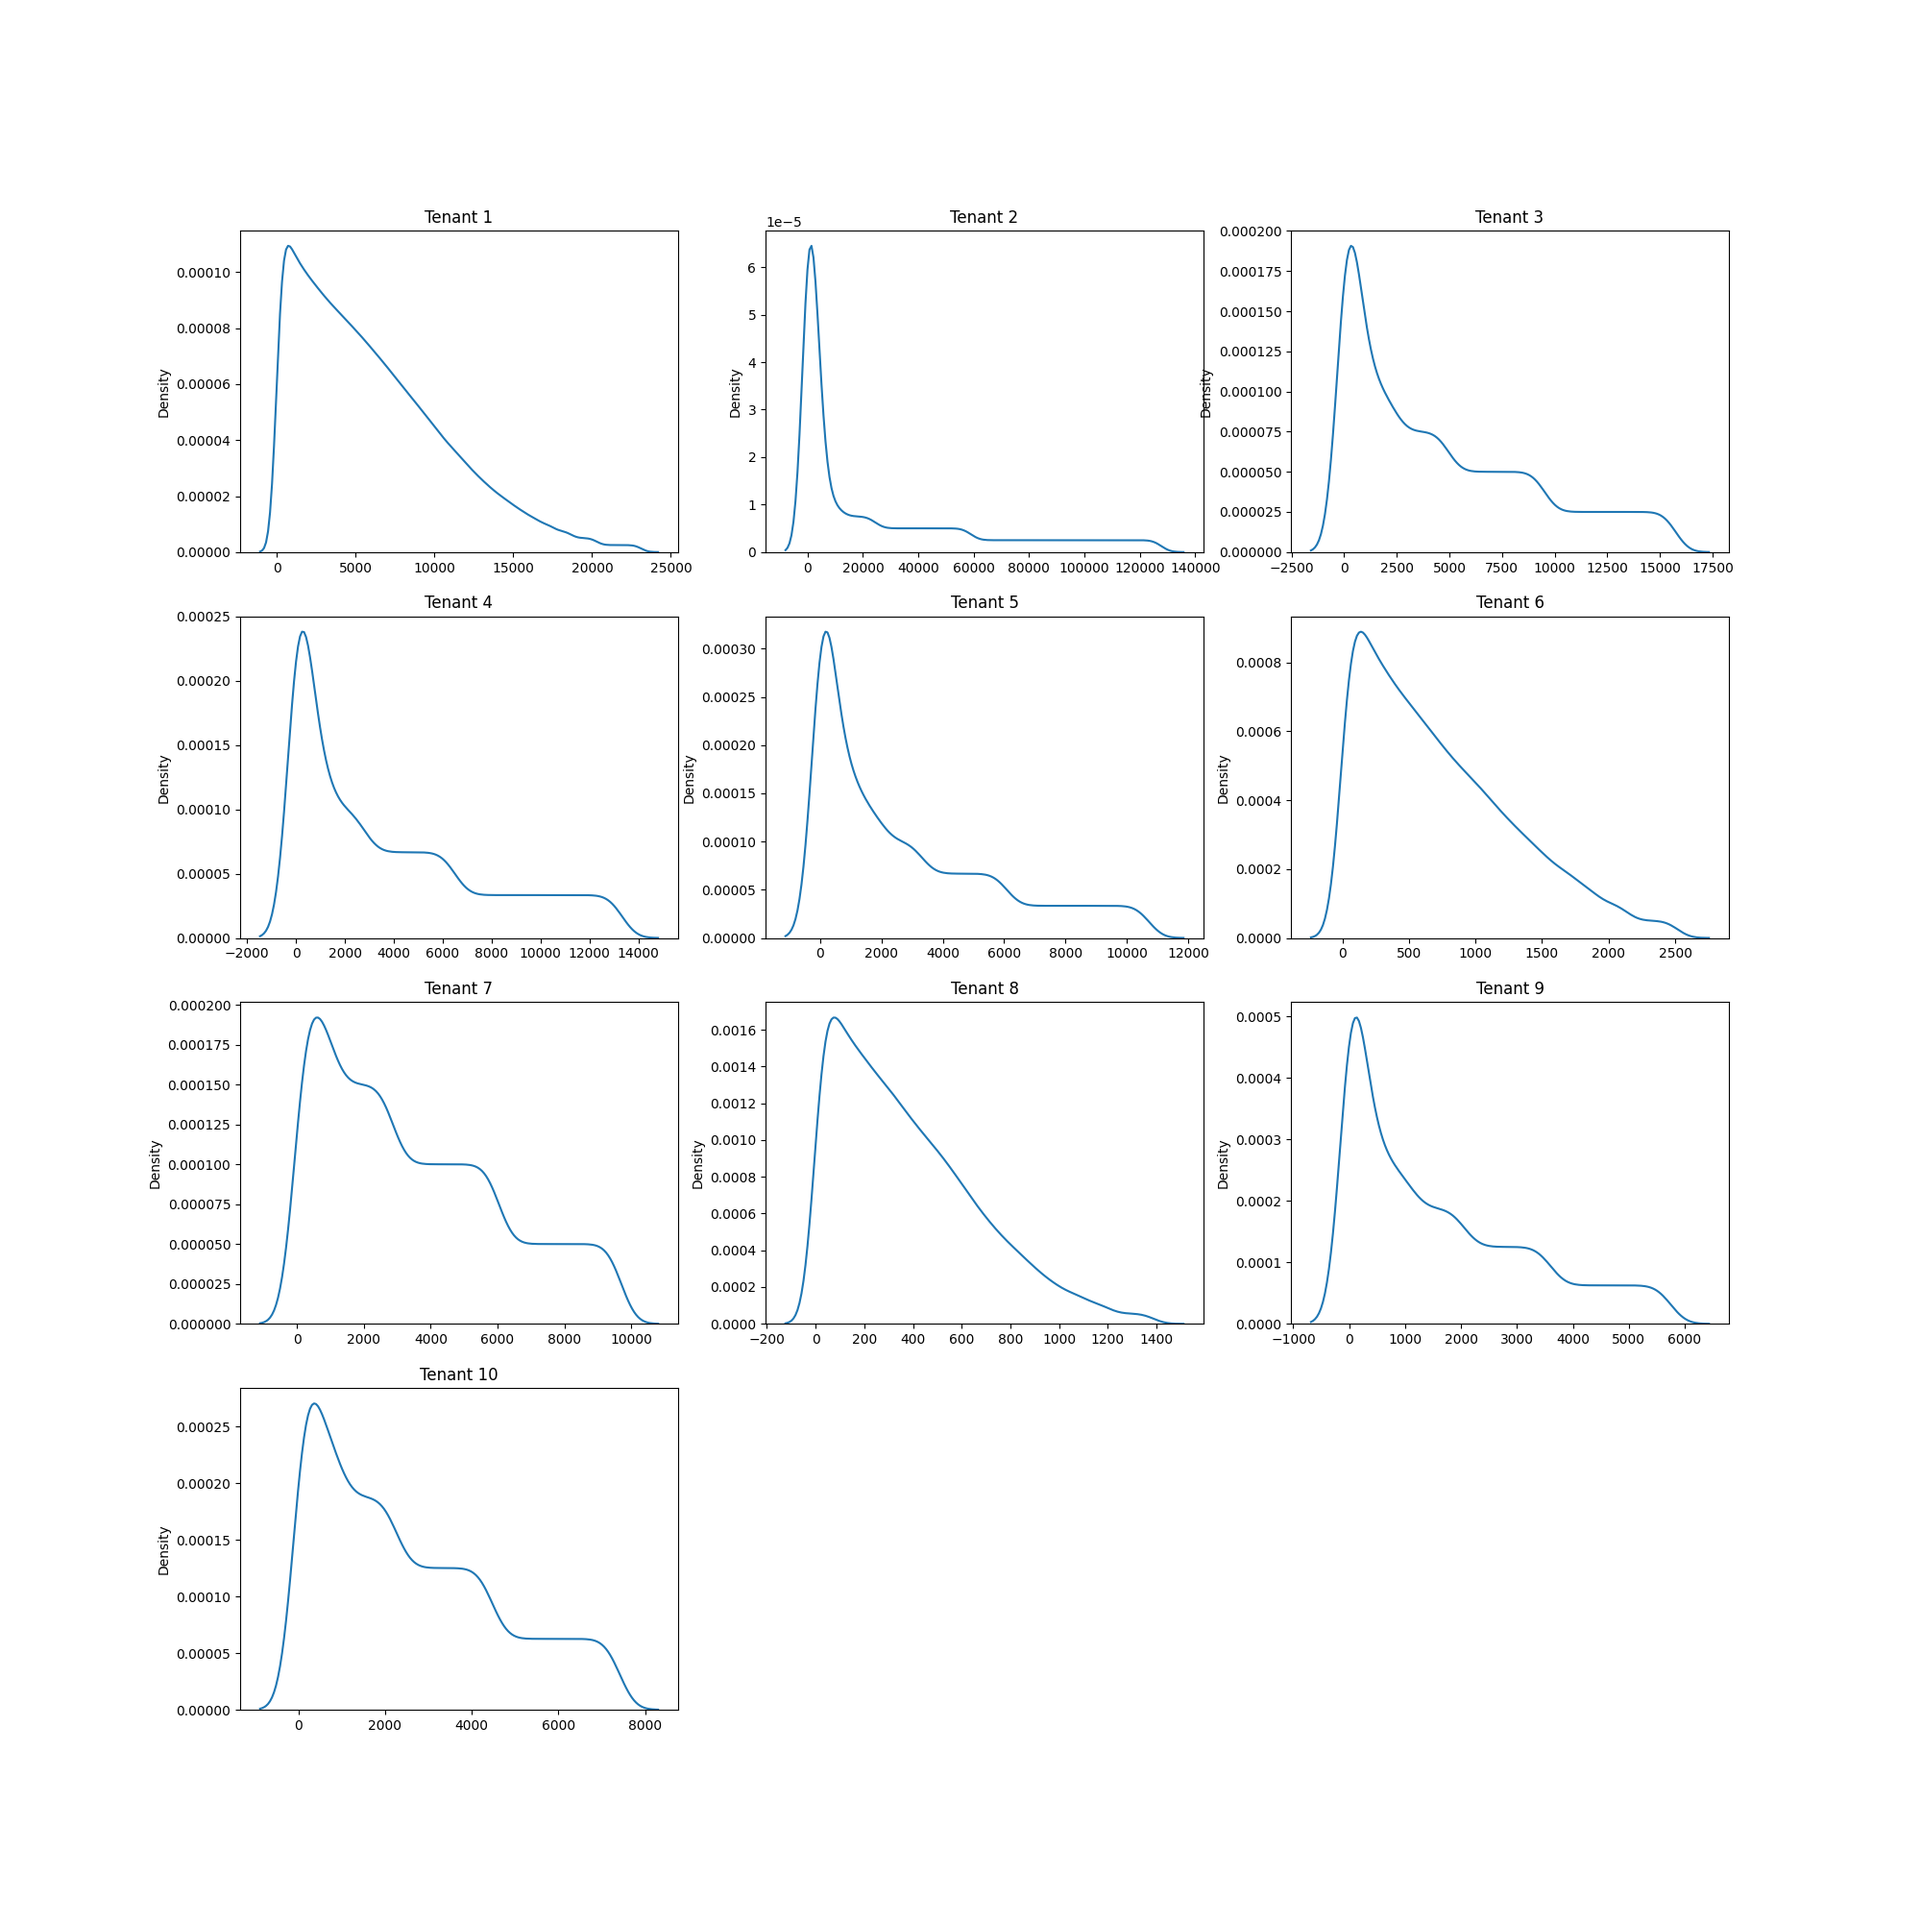
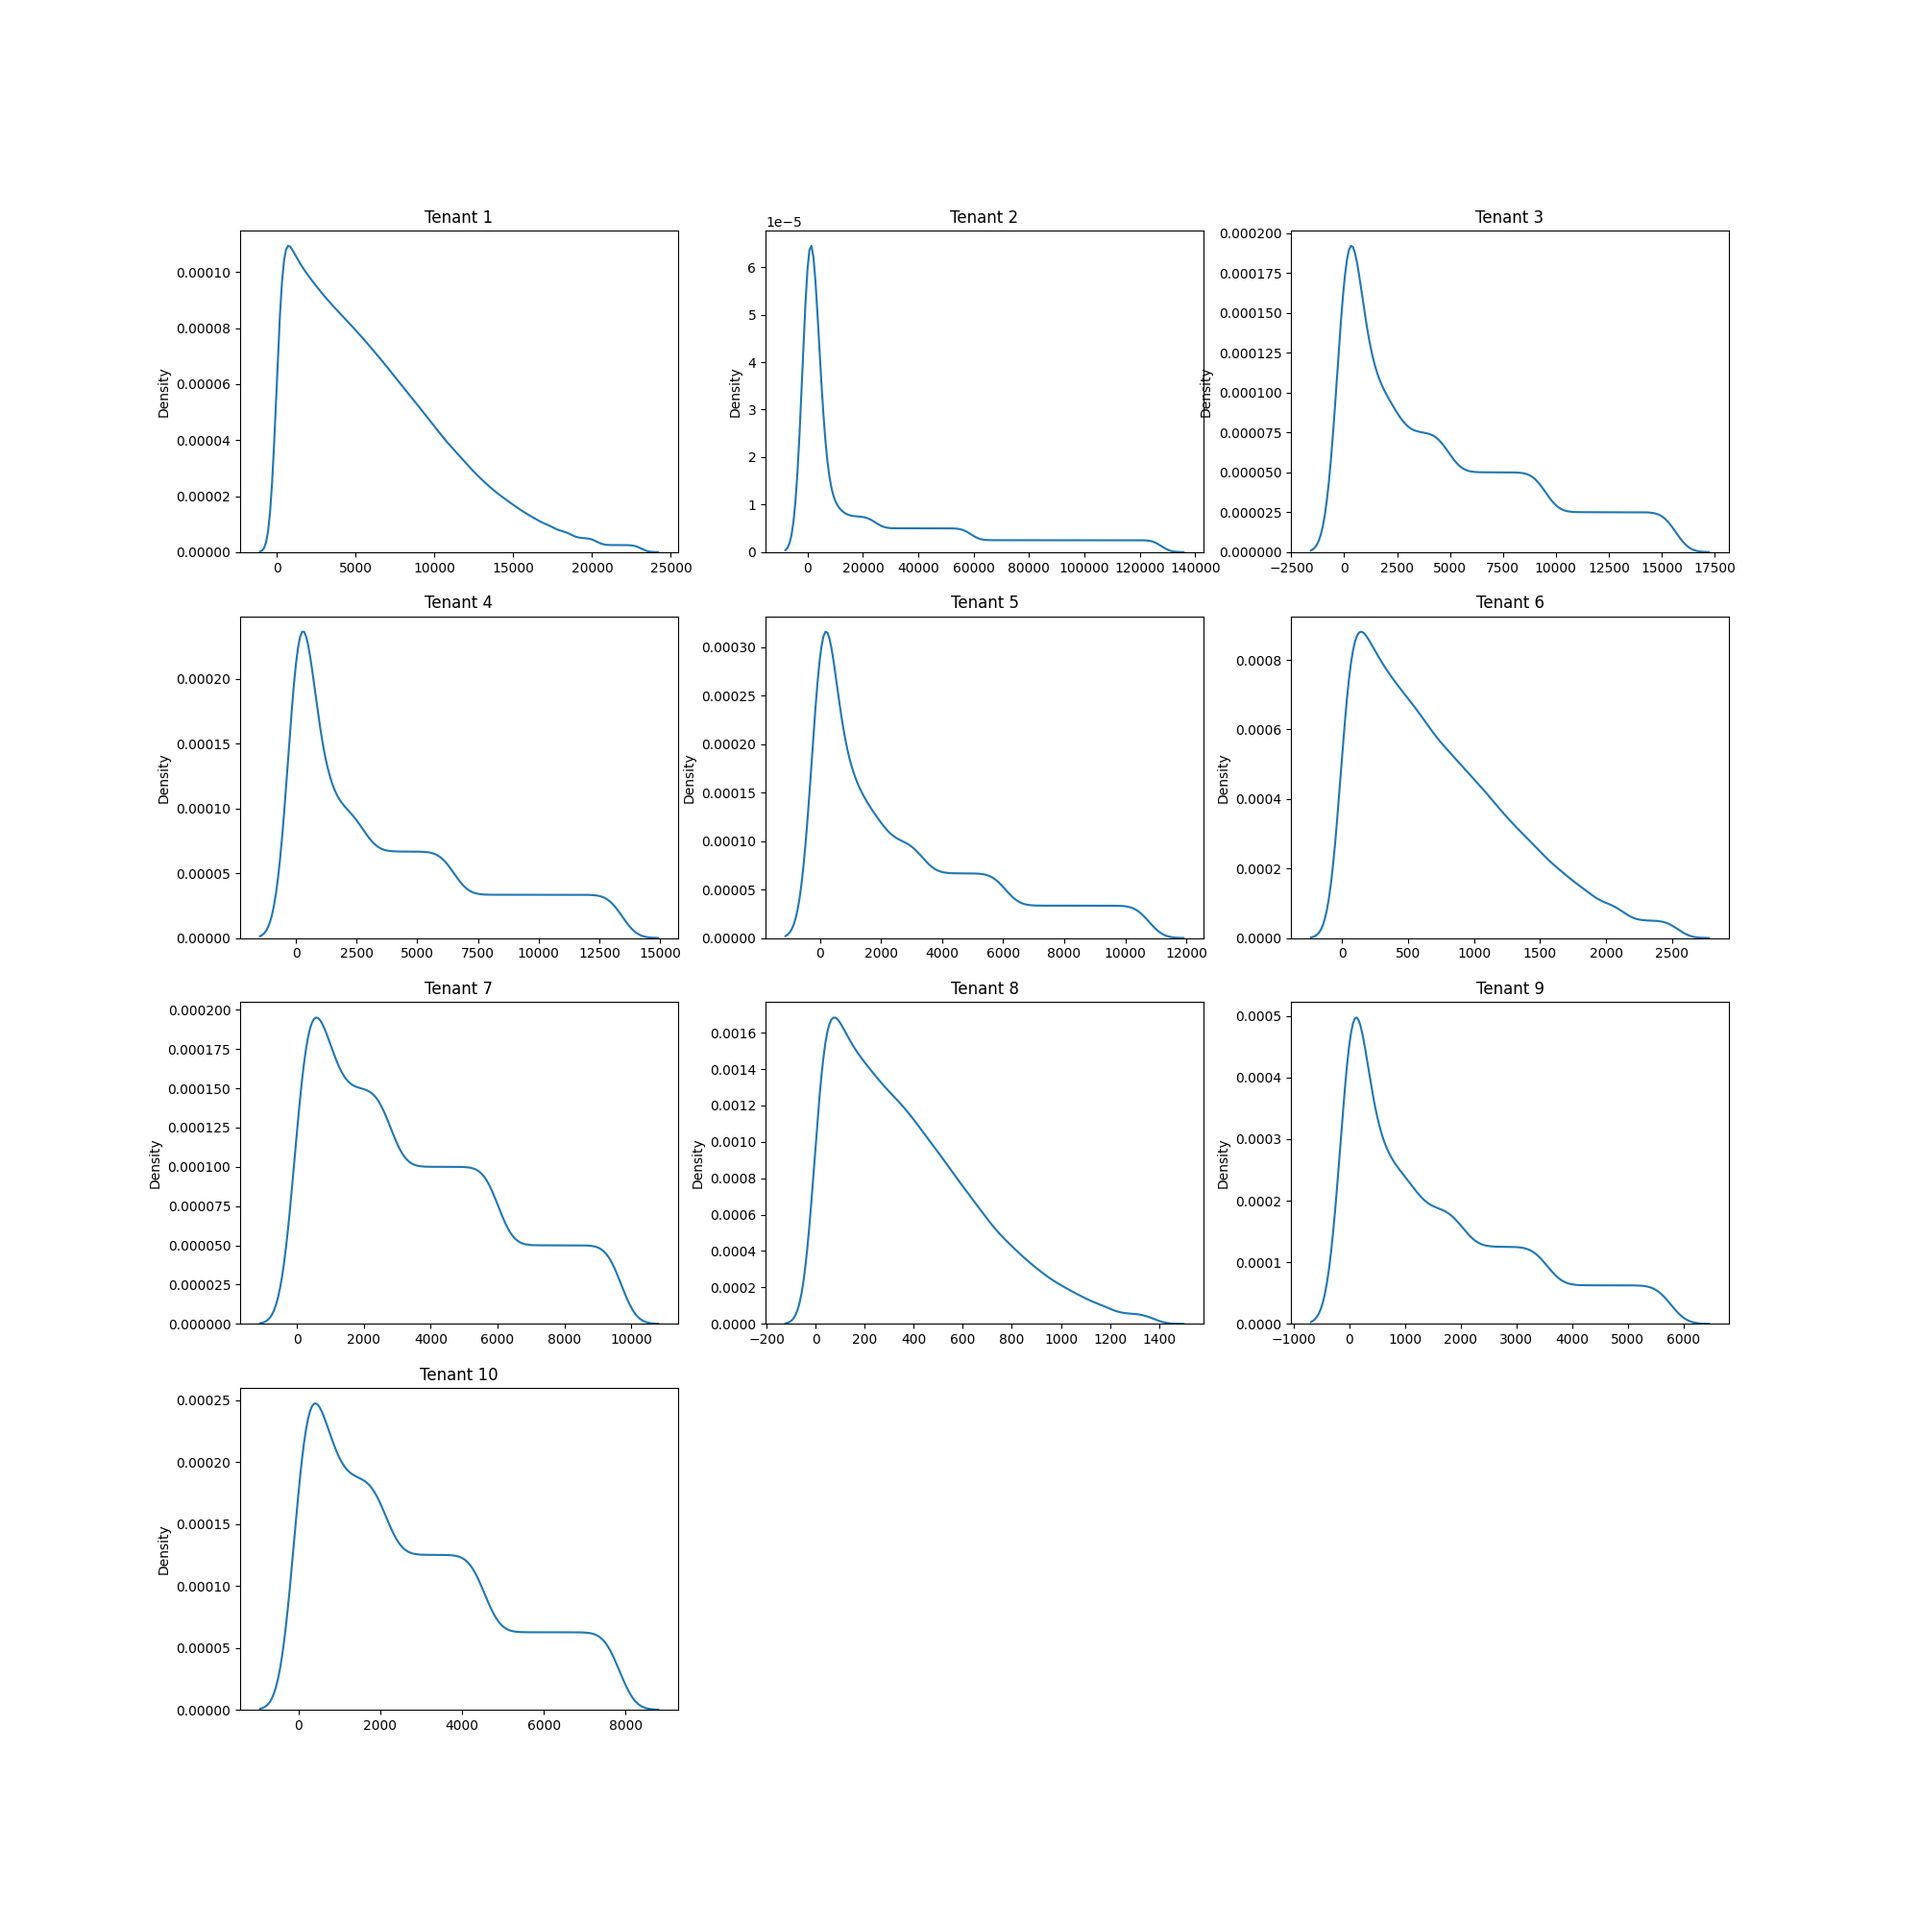
modify-test-14

diff --git a/test_cases/test_case_14/description.py b/test_cases/test_case_14/description.py
@@ -1,4 +1,4 @@
-## Description of the test case 6
+## Description of the test case 14
 ## Ten tenants following different distributions of page accesses
 
 tenants = [
@@ -9,17 +9,16 @@ tenants = [
         'minimum_buffer_size': 7500,
         'base_buffer_size': 20000,
         'maximum_buffer_size': 60000,
-        'page_accesses_dist': {
+        'page_accesses_dist': [
+          {
             'type': 'normal',
             'variance': 8000,
             'length': 400000,
-        },
+            'interval_type': 'uniform',
+            'interval_max_value': 1,
+          },
+        ],
         'pages_should_be_renumbered': False,
-        'page_accesses_interval_dist': {
-            'type': 'uniform',
-            'length': 400000,
-            'max_value': 1,
-        },
     },
     {
         'tenant_id': 2,
@@ -28,17 +27,16 @@ tenants = [
         'minimum_buffer_size': 7500,
         'base_buffer_size': 20000,
         'maximum_buffer_size': 60000,
-        'page_accesses_dist': {
+        'page_accesses_dist': [
+          {
             'type': 'pareto',
             'parameter': 0.04,
             'length': 400000,
-        },
+            'interval_type': 'uniform',
+            'interval_max_value': 1,
+          },
+        ],
         'pages_should_be_renumbered': False,
-        'page_accesses_interval_dist': {
-            'type': 'uniform',
-            'length': 400000,
-            'max_value': 1,
-        },
     },
     {
         'tenant_id': 3,
@@ -47,18 +45,17 @@ tenants = [
         'minimum_buffer_size': 1250,
         'base_buffer_size': 4000,
         'maximum_buffer_size': 10000,
-        'page_accesses_dist': {
+        'page_accesses_dist': [
+          {
             'type': 'zipfian',
             'parameter': 1.01,
             'length': 40000,
-        },
+            'interval_type': 'zipfian',
+            'interval_parameter': 3,
+            'interval_max_value': 4000,
+          },
+        ],
         'pages_should_be_renumbered': True,
-        'page_accesses_interval_dist': {
-            'type': 'zipfian',
-            'length': 40000,
-            'parameter': 3,
-            'max_value': 4000,
-        },
     },
     {
         'tenant_id': 4,
@@ -67,17 +64,16 @@ tenants = [
         'minimum_buffer_size': 1000,
         'base_buffer_size': 3000,
         'maximum_buffer_size': 7500,
-        'page_accesses_dist': {
+        'page_accesses_dist': [
+          {
             'type': 'zipfian',
             'parameter': 1.01,
             'length': 30000,
-        },
+            'interval_type': 'uniform',
+            'interval_max_value': 1,
+          },
+        ],
         'pages_should_be_renumbered': False,
-        'page_accesses_interval_dist': {
-            'type': 'uniform',
-            'length': 30000,
-            'max_value': 1,
-        },
     },
     {
         'tenant_id': 5,
@@ -86,18 +82,17 @@ tenants = [
         'minimum_buffer_size': 1000,
         'base_buffer_size': 3000,
         'maximum_buffer_size': 7500,
-        'page_accesses_dist': {
+        'page_accesses_dist': [
+          {
             'type': 'pareto',
             'parameter': 0.04,
             'length': 30000,
             'max_value': 3000,
-        },
+            'interval_type': 'uniform',
+            'interval_max_value': 1,
+          },
+        ],
         'pages_should_be_renumbered': False,
-        'page_accesses_interval_dist': {
-            'type': 'uniform',
-            'length': 30000,
-            'max_value': 1,
-        },
     },
     {
         'tenant_id': 6,
@@ -106,17 +101,16 @@ tenants = [
         'minimum_buffer_size': 600,
         'base_buffer_size': 2000,
         'maximum_buffer_size': 4500,
-        'page_accesses_dist': {
+        'page_accesses_dist': [
+          {
             'type': 'normal',
             'variance': 1000,
             'length': 20000,
-        },
+            'interval_type': 'uniform',
+            'interval_max_value': 1,
+          },
+        ],
         'pages_should_be_renumbered': False,
-        'page_accesses_interval_dist': {
-            'type': 'uniform',
-            'length': 20000,
-            'max_value': 1,
-        },
     },
     {
         'tenant_id': 7,
@@ -125,16 +119,15 @@ tenants = [
         'minimum_buffer_size': 600,
         'base_buffer_size': 2000,
         'maximum_buffer_size': 4500,
-        'page_accesses_dist': {
+        'page_accesses_dist': [
+          {
             'type': 'uniform',
             'length': 20000,
-        },
+            'interval_type': 'uniform',
+            'interval_max_value': 10,
+          },
+        ],
         'pages_should_be_renumbered': True,
-        'page_accesses_interval_dist': {
-            'type': 'uniform',
-            'length': 20000,
-            'max_value': 10,
-        },
     },
     {
         'tenant_id': 8,
@@ -143,17 +136,16 @@ tenants = [
         'minimum_buffer_size': 500,
         'base_buffer_size': 1500,
         'maximum_buffer_size': 4000,
-        'page_accesses_dist': {
+        'page_accesses_dist': [
+          {
             'type': 'normal',
             'variance': 500,
             'length': 18000,
-        },
+            'interval_type': 'uniform',
+            'interval_max_value': 1,
+          },
+        ],
         'pages_should_be_renumbered': False,
-        'page_accesses_interval_dist': {
-            'type': 'uniform',
-            'length': 18000,
-            'max_value': 1,
-        },
     },
     {
         'tenant_id': 9,
@@ -162,17 +154,16 @@ tenants = [
         'minimum_buffer_size': 500,
         'base_buffer_size': 1500,
         'maximum_buffer_size': 4000,
-        'page_accesses_dist': {
+        'page_accesses_dist': [
+          {
             'type': 'pareto',
             'parameter': 0.04,
             'length': 16000,
-        },
+            'interval_type': 'uniform',
+            'interval_max_value': 1,
+          },
+        ],
         'pages_should_be_renumbered': False,
-        'page_accesses_interval_dist': {
-            'type': 'uniform',
-            'length': 16000,
-            'max_value': 1,
-        },
     },
     {
         'tenant_id': 10,
@@ -181,18 +172,17 @@ tenants = [
         'minimum_buffer_size': 500,
         'base_buffer_size': 1500,
         'maximum_buffer_size': 4000,
-        'page_accesses_dist': {
+        'page_accesses_dist': [
+          {
             'type': 'pareto',
             'parameter': 0.04,
             'length': 16000,
-        },
+            'interval_type': 'pareto',
+            'interval_parameter': 1,
+            'interval_max_value': 10000,
+          },
+        ],
         'pages_should_be_renumbered': True,
-        'page_accesses_interval_dist': {
-            'type': 'pareto',
-            'length': 16000,
-            'parameter': 1,
-            'max_value': 1000,
-        },
     },
 ]
 
